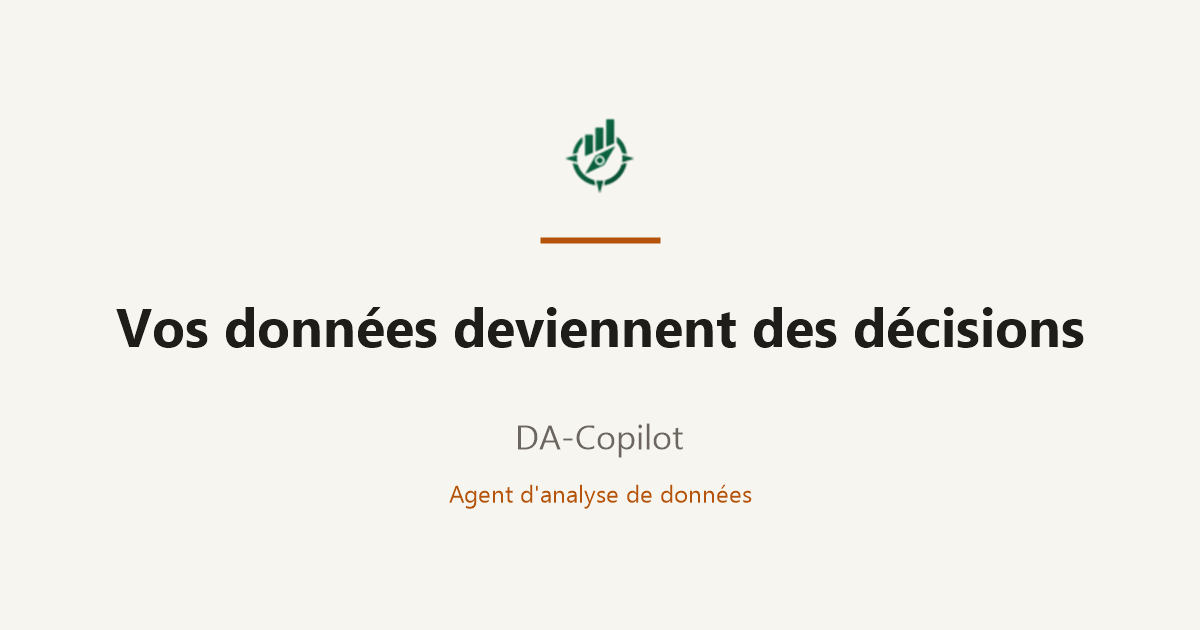
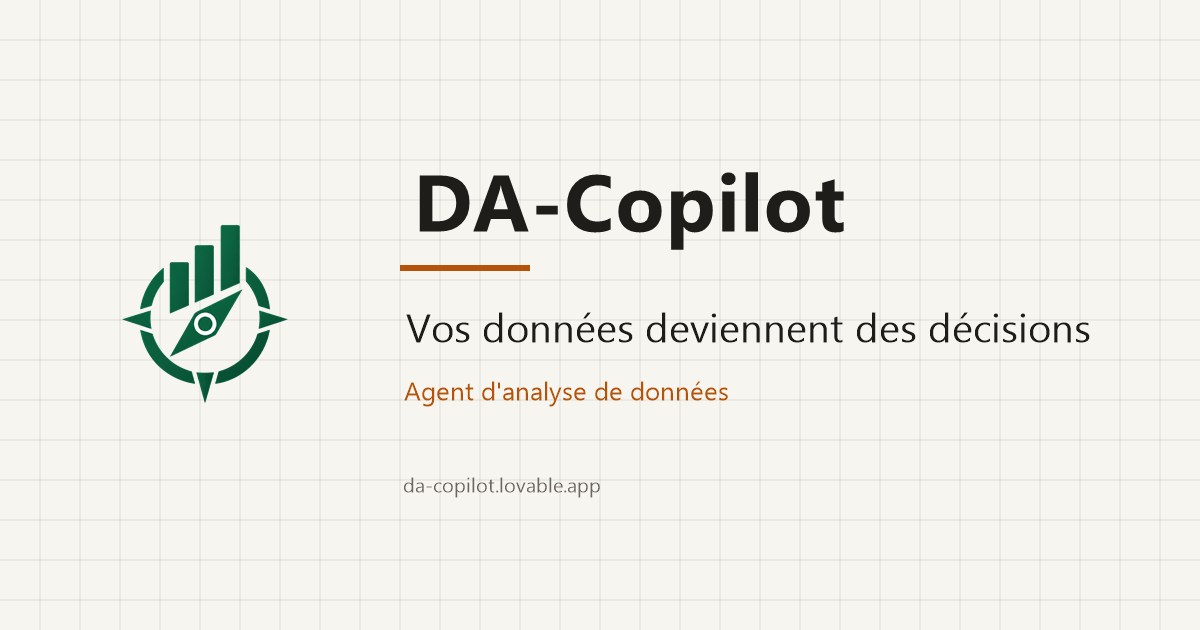
Clarify data retention FAQ and strengthen share preview

diff --git a/src/routes/__root.tsx b/src/routes/__root.tsx
@@ -79,13 +79,14 @@ export const Route = createRootRouteWithContext<{ queryClient: QueryClient }>()(
     meta: [
       { charSet: "utf-8" },
       { name: "viewport", content: "width=device-width, initial-scale=1" },
-      { title: "DA-Copilot — Agent d'analyse de données" },
+      { title: "DA-Copilot — Agent d’analyse de données" },
       {
         name: "description",
         content:
           "DA-Copilot transforme vos questions métier et vos fichiers CSV en analyses claires, chiffrées et actionnables : KPI, tendances, anomalies et recommandations.",
       },
-      { property: "og:title", content: "DA-Copilot — Agent d'analyse de données" },
+      { property: "og:site_name", content: "DA-Copilot" },
+      { property: "og:title", content: "DA-Copilot — Agent d’analyse de données" },
       {
         property: "og:description",
         content:
@@ -93,13 +94,37 @@ export const Route = createRootRouteWithContext<{ queryClient: QueryClient }>()(
       },
       { property: "og:type", content: "website" },
       { property: "og:url", content: "https://da-copilot.lovable.app/" },
-      { property: "og:image", content: "https://da-copilot.lovable.app/og-image.png" },
+      {
+        property: "og:image",
+        content: "https://da-copilot.lovable.app/og-image-v2.png",
+      },
+      { property: "og:image:type", content: "image/png" },
+      { property: "og:image:width", content: "1200" },
+      { property: "og:image:height", content: "630" },
+      {
+        property: "og:image:alt",
+        content: "Logo DA-Copilot et accroche : vos données deviennent des décisions.",
+      },
       { name: "twitter:card", content: "summary_large_image" },
-      { name: "twitter:image", content: "https://da-copilot.lovable.app/og-image.png" },
+      { name: "twitter:title", content: "DA-Copilot — Agent d’analyse de données" },
+      {
+        name: "twitter:description",
+        content:
+          "Téléversez vos données, posez votre question, recevez une analyse chiffrée et des recommandations actionnables.",
+      },
+      {
+        name: "twitter:image",
+        content: "https://da-copilot.lovable.app/og-image-v2.png",
+      },
+      {
+        name: "twitter:image:alt",
+        content: "Logo DA-Copilot et accroche : vos données deviennent des décisions.",
+      },
     ],
     links: [
       { rel: "stylesheet", href: appCss },
       { rel: "icon", type: "image/png", href: "/favicon.png" },
+      { rel: "apple-touch-icon", href: "/apple-touch-icon.png" },
       { rel: "preconnect", href: "https://fonts.googleapis.com" },
       { rel: "preconnect", href: "https://fonts.gstatic.com", crossOrigin: "anonymous" },
       {

diff --git a/src/components/landing/faq.tsx b/src/components/landing/faq.tsx
@@ -19,7 +19,7 @@ const faq = [
   {
     question: "Mes données sont-elles conservées ?",
     answer:
-      "Le fichier original n'est pas conservé. Un extrait CSV de 40 lignes et le profil statistique sont enregistrés avec votre conversation, ainsi que les messages. Vous pouvez supprimer la conversation depuis la barre latérale, ce qui supprime aussi son historique. Évitez les données personnelles ou sensibles.",
+      "Le fichier d'origine n'est jamais conservé. Pour réafficher votre jeu de données dans la conversation, nous gardons uniquement un aperçu des 40 premières lignes au format CSV, un résumé statistique (colonnes, types, valeurs manquantes) et les messages échangés. Vous pouvez supprimer la conversation depuis la barre latérale, ce qui supprime aussi cet historique. Évitez les données personnelles ou sensibles.",
   },
   {
     question: "Puis-je exporter mes résultats ?",

diff --git a/src/routes/index.tsx b/src/routes/index.tsx
@@ -13,13 +13,13 @@ import logo from "@/assets/logo.png";
 export const Route = createFileRoute("/")({
   head: () => ({
     meta: [
-      { title: "DA-Copilot — Agent d'analyse de données" },
+      { title: "DA-Copilot — Agent d’analyse de données" },
       {
         name: "description",
         content:
           "Téléversez un fichier (CSV, Excel, JSON, GeoJSON, LAS…), posez votre question métier, et recevez une analyse claire, chiffrée et vérifiable : KPI, tendances, anomalies et recommandations.",
       },
-      { property: "og:title", content: "DA-Copilot — Agent d'analyse de données" },
+      { property: "og:title", content: "DA-Copilot — Agent d’analyse de données" },
       {
         property: "og:description",
         content: "Vos données deviennent des décisions : analyses chiffrées et recommandations actionnables par IA.",
